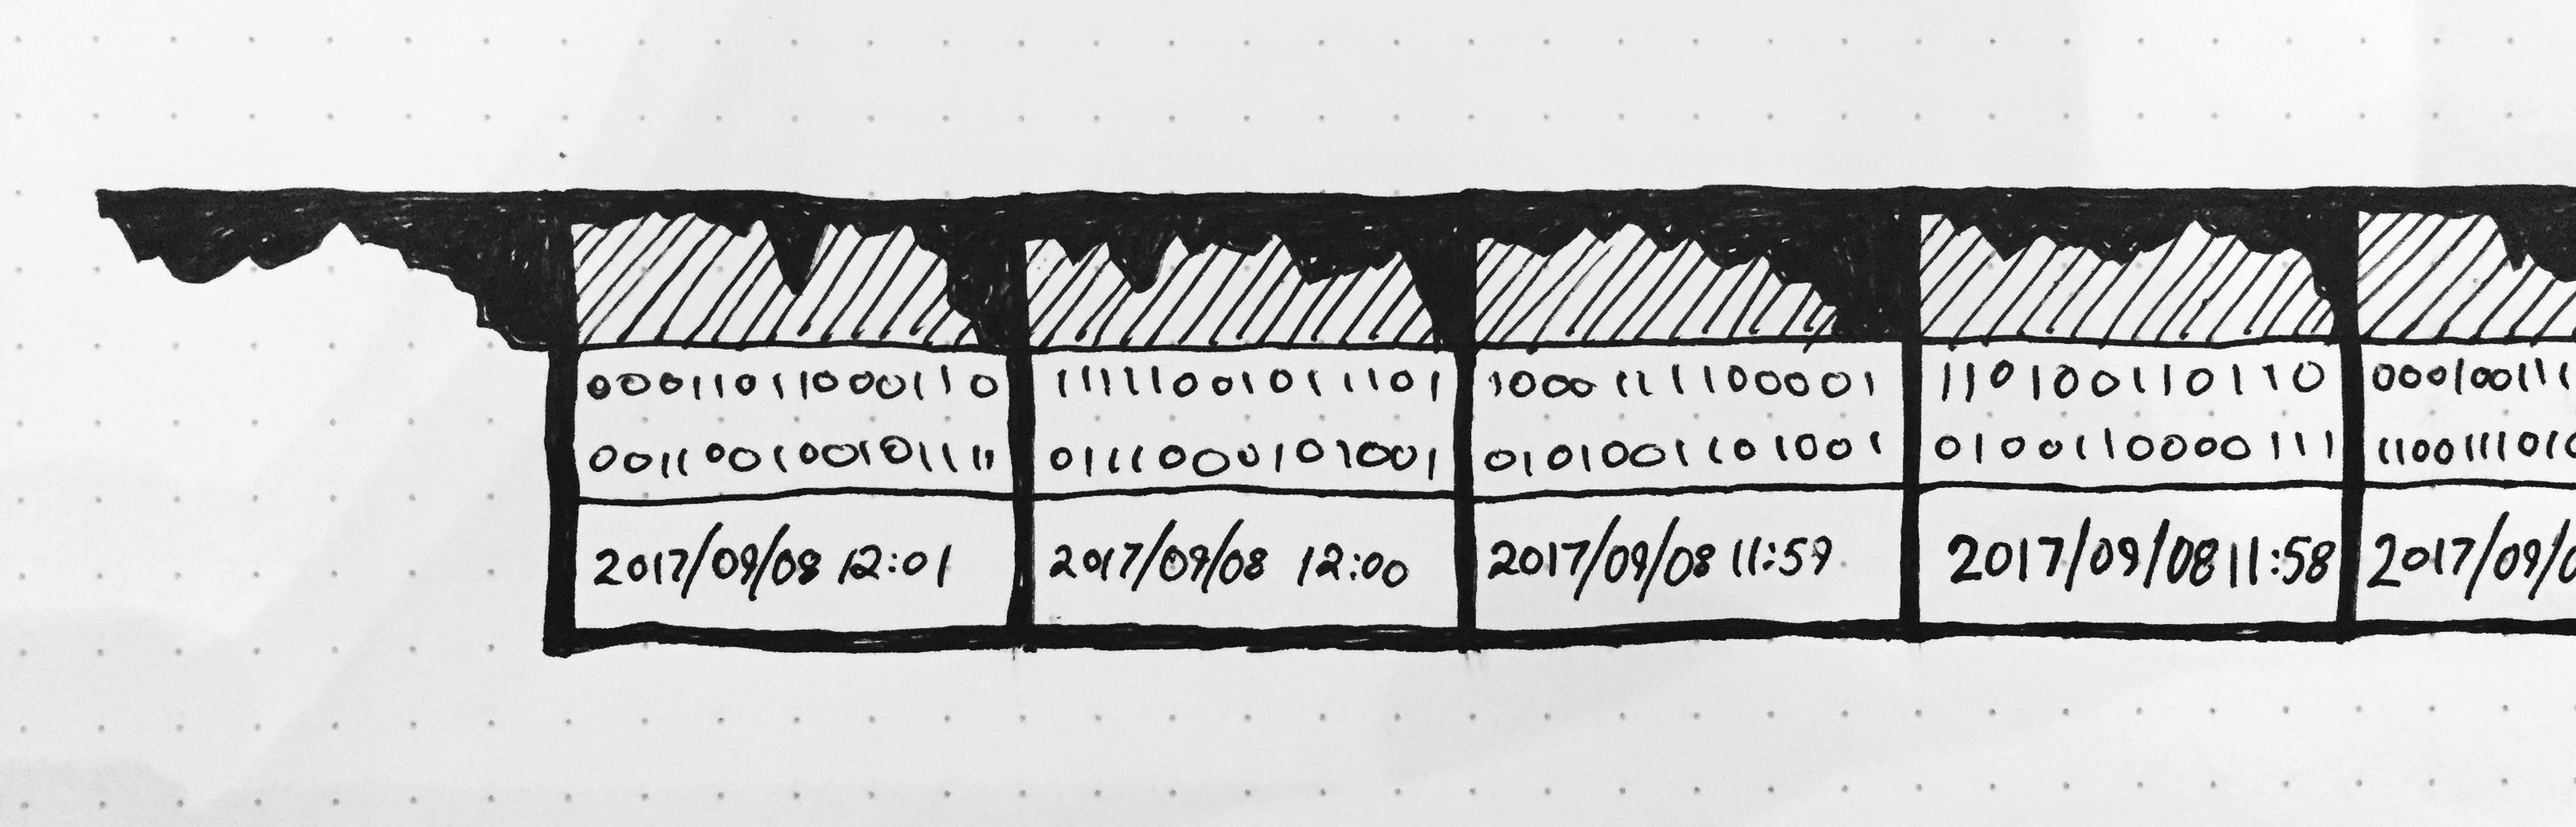
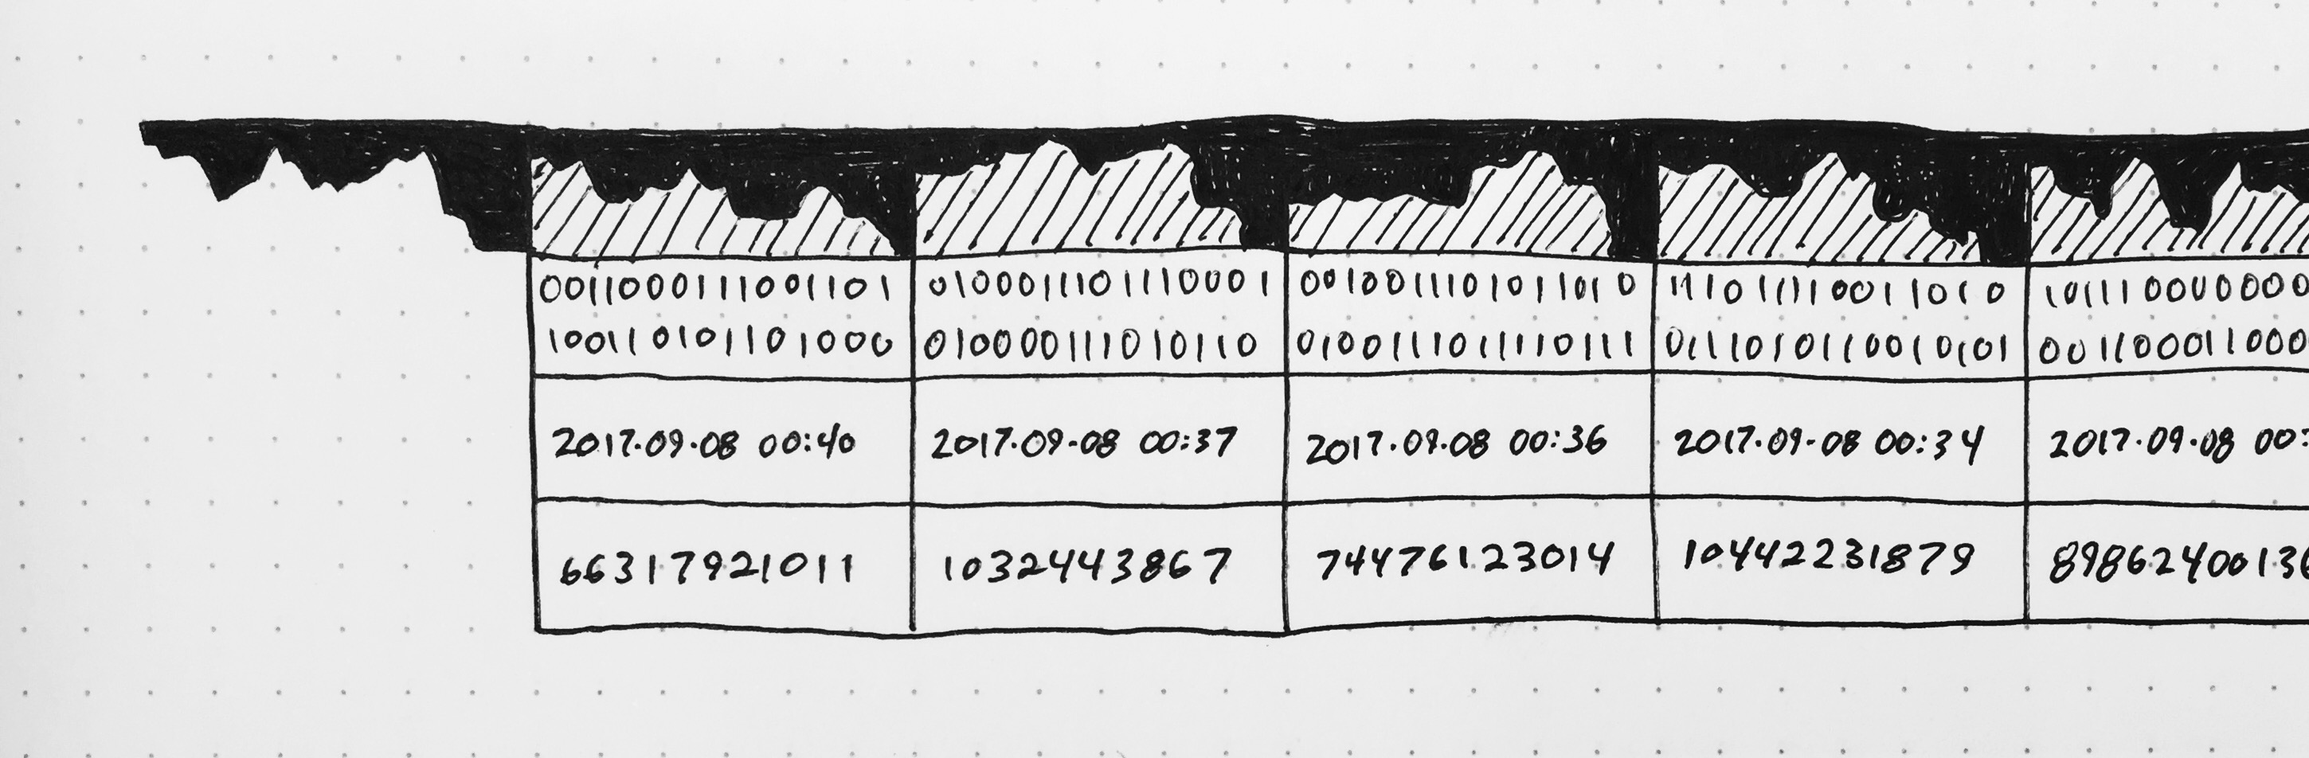
Blockchain Basics complete.

Changed region(s): [[0.031, 0.1523, 1.0, 0.8529]]

diff --git a/themes/stark/static/css/stark.css b/themes/stark/static/css/stark.css
@@ -33,9 +33,11 @@ p {
 a,a:visited {
   text-decoration: none;
   color: #2996D1;
+  cursor: default;
 }
 a:hover,a:active {
   color: #1F719E;
+  cursor: default;
 }
 
 h1 { color: #333; font-size: 1.8em; letter-spacing: 0.02em; line-height: 1.4; padding: 0 0 0 0; margin: 1em 0 0.6em 0; }
@@ -208,6 +210,16 @@ pre {
 }
 code {
   font-family: 'Cousine', monospace;
+}
+blockquote {
+  font-size: 1.2em;
+  border-radius: 4px;
+  border-left: 4px solid #EEE;
+  -webkit-margin-before: 1em;
+  -webkit-margin-after: 1em;
+  -webkit-margin-start: 10px;
+  -webkit-margin-end: 10px;
+  padding-left: 20px;
 }
 
 table {

diff --git a/content/post/blockchain.md b/content/post/blockchain.md
@@ -10,32 +10,88 @@ But what *is* a Bitcoin? Or maybe it's better to ask, how does Bitcoin work? To 
 
 ![Blockchain][cover]
 
-## What is a blockchain?
+## What are blockchains?
 
-{{< footref 2 "Blockchain" >}} refers to a distributed data structure, composed of blocks that are chained together. Each block contains a list of records, a timestamp, and a reference to the single previous block in the chain. The content of each block is cryptographically hashed--that is, sent through a {{< footref 3 "hash function" >}} to yield a deterministic value that is appended to the block. These hash values serve as the chaining reference mechanism; that is, each block stores the hash value of the previous block, which is included in the data that gets hashed and stored on each block. As data is generated, blocks are created and hashed--often through a process called "mining"--then appended to the end of the chain.
+{{< footref 2 "Blockchains" >}} are secure, decentralized data structures, composed of blocks that are chained together. Each block contains a list of records, a timestamp, and a reference to the single previous block in the chain. The content of each block is cryptographically hashed&mdash;that is, sent through a {{< footref 3 "hash function" >}} to yield a deterministic value that is appended to the block. These hash values serve as the chaining reference mechanism; that is, each block stores the hash value of the previous block, which is included in the data that gets hashed and stored on each block. As data is generated, blocks are created and hashed&mdash;often through a process called "mining"&mdash;then appended to the end of the chain.
 
 Got all that? Good, there's a little more.
 
-Every computer--or node--in the ecosystem keeps track of the entire blockchain history, back to the very first block. When a block is forged, everyone in the ecosystem is notified of this new block and is asked to add it to their chain. Hence, the blockchain is distributed--no single node defines the true state of affairs. Consensus is reached by the collective, not by a centralized authority. You should question the security properties of such a system, which we will briefly discuss soon.
+Every computer&mdash;or node&mdash;in the ecosystem keeps track of the entire blockchain history, back to the very first block. When a block is forged, everyone in the ecosystem is notified of this new block and is asked to add it to their chain. Hence, the blockchain is distributed&mdash;no single node defines the true state of affairs. Consensus is reached by the collective, not by a centralized authority. You should question the security properties of such a system, which we will briefly discuss soon.
 
 <div style="background: rgba(0,0,0,0.05); border-radius: 2px; padding: 20px 26px; color: #555555; font-weight: 300; margin-bottom: 1em; max-width: 100%; overflow-x: scroll;">
-  <h4>Hash functions</h4>
-  <p>The elegance of the blockchain is difficult to capture in a physical analogy because of the wizard-like properties of cryptographic hash functions. If you're totally unfamiliar, I encourage you to read this (and perhaps much more) before moving on.</p>
+  <h4><a href="#hash-functions" name="hash-functions">Cryptographic hash functions</a></h4>
+  <p>The elegance of the blockchain is difficult to capture in a physical analogy because of the mathemagical properties of cryptographic hash functions. If you're totally unfamiliar, I encourage you to read this (and perhaps much more) before moving on.</p>
   <p>In short, a hash function generates a deterministic, collision-resistant value, given some data. Changing even a single bit of the input data will radically change the output hash value. For example, here are the hash values for the inputs "blip" and "clip", using the popular SHA256 hash function:</p>
   <p><code>SHA256("blip") = 4EF2018109FF8A6508F97C0A7B000FDDDA264207C9B03A4666741803981EAB8A</code></p>
   <p><code>SHA256("clip") = 67905AD3CC2DD52B1F5F6A6D2814DE0396618B29B4238B9AF5207AEB69936E6D</code></p>
-  <p>The randomness and collision-resistance of these functions make two procedures practically impossible: discovering some pattern of predictability the output hash value, and inventing two different sets of input data that generate the same output hash value. These properties are the basis for blockchain security.</p>
+  <p>Often, hash functions are called one-way functions because they are relatively quick to compute, given an input, but nearly impossible to reverse-engineer. That is, given a hash output value, the only way to find the input that generated it would be to guess by brute-force. For SHA256, specifically, there are <code>2<sup>256</sup></code> possible output values and inputs are padded to <code>64-bit</code> numbers. That means there are <code>2<sup>64</sup>-1</code> possible inputs to check. Even if you expect to find the number you're looking for halfway through the process (on average) that would require hashing <code>2<sup>63</sup></code> values, a task which would take an infeasible amount of time even for an incredibly powerful modern computer. That means that fraudulently crafting two inputs that generate the same output and fraudulently crafting an input to match a given output are practically impossible operations.</p>
+  <p>These properties of cryptographic hash functions&mdash;unpredictability and collision-resistance&mdash;form the basis for <a href="#security">blockchain security</a>.</p>
 </div>
 
-Let's bolster this fuzzy technical description with some intuition.
+Let's bolster this quick, technical description with some intuition.
 
-## Intuition
+## Anatomy of a block
 
+Despite the non-physical, cryptographic qualities of blockchain, we can think of each block as both a key and lock. Adding a new block to the chain would equate to attaching the lock-side of the new block to the key-side of the last block in the chain.
 
+![Anatomy of a block][02]
+
+The lock side of the block (the four stacked rows on the right) is composed of at least a few pieces of data: the previous block's hash value, the data (often a list of records) that the blockchain is meant to store and protect, and the timestamp of the block's creation. In the case of Bitcoin and many other cryptocurrencies, it will also contain a {{< footref 4 "proof of work" >}}, which is a {{< footref 5 "nonce" >}}, or simply an integer that has been incremented a particular number of times in order to prove the computational work involved in mining the block. (We'll discuss what, exactly, that means in the <a href="#security">security</a> section below.)
+
+The key side (in solid black) is the value generated by hashing the entire lock side.
+
+While this analogy provides intuition about the structure of a blockchain, it fails to fully capture the most important property: data security and fraud-resistance. This property follows directly from the properties of {{< defref "hash-functions" "cryptographic hash functions" >}}, covered briefly above.
 
 ## Properties of a blockchain
 
+Recalling our first definition, blockchains have two essential properties:
+
+1. Decentralized
+1. Secure
+
+### Decentralization
+
+Decentralization is a straight-forward idea: no single, authoritative entity decides the state of a blockchain. Rather, every participant owns and maintains their own copy, so the "true state" of the blockchain is decided by consensus. Consensus is decided by the length of the chain, giving preference to longer chains&mdash;equivalently, chains that represent more computational work. (We'll return to this idea in the <a href="#security">security</a> section.)
+
+But why is the blockchain decentralized? Put simply, the entire point is to build a trustworthy structure without relying on a centralized, trusted third-party. For example, in the case of Bitcoin and other cryptocurrencies, blockchain gives individuals the ability to trust a transactional financial system without needing to trust a government or a bank. Therefore, all participants must own the state of the blockchain.
+
+Decentralized ownership, however, does not imply integrity. *Trustworthy* consensus is afforded by the structural security properties.
+
+<a name="security">
+### Security
+</a>
+
+If everyone owns the blockchain, what's stopping someone from simply changing the data? In the case of Bitcoin, where the data is a ledger of transactions, couldn't someone change a few numbers and steal from a stranger? Well, let's try.
+
+For any given block, I *could* change a number in the data. But changing even a single byte of the data will completely change the hash value of that block. Furthermore, changing the hash value of the current block will change the hash value embedded in the next block, causing a chain reaction through all subsequent blocks until the most recent one. Fraudulently changing data in a single block requires never-ending fraudulent re-hashing of every block that follows, which is obviously infeasible because is would require one to beat the entire decentralized community of owners and miners in a race to create blocks. This is where proof of work becomes important.
+
+The rules of a proof of work-based blockchain dictate that the binary value of a block's hash must start with a given number of consecutive `0`s before the first `1` appears. Thanks to the properties of cryptographic hash functions, brute force is the only way to discover one of these special hash values; that is, if the value doesn't start with `N` consecutive `0`s, increment the nonce and try again, repeating the process until finding a valid hash value.
+
+Just how tough would it be to find a hash value that started with, for example, twenty `0`s? The probability that any bit individual bit will be a `0` is `1` in `2`. Therefore, the probability that the first twenty consecutive bits of a random hash will be `0` is `1` in <code>2<sup>20</sup></code>, or `0.000000953674316`. On average, then, one could expect to have to compute `1048576` hashes in order to find such a number. The difficulty of this task rises exponentially with a linear increase in the number of consecutive `0`s required, so there is a simple way to make this task arbitrarily hard. Remember, also, that this task is required for each block! If someone were trying to defraud the system, they'd have to compute these millions of hashes for *every subsequent block*. That task is simply infeasible, unless the fraudulent party owns 50% or more of the total computing power working against them--the power of the distributed community.
+
+As Grant from [3Blue1Brown](https://www.3blue1brown.com/) explains in {{< footref 6 "Ever wonder how Bitcoin (and other cryptocurrencies) actually work?" >}},
+
+> If you use computational work as a basis for what to trust, you can make it so that fraudulent transactions and conflicting ledgers would require an infeasible amount of computation to bring about.
+
+Without getting too deep down the mathematical rabbit-hole, that definition of security will suffice: the system is secure if creating and perpetuating fraudulent data is infeasible. Hopefully you're convinced of the security of this system, in spite of the brevity with which we've had to cover it here.
+
 ## How can blockchains be used?
+
+[Entire books](https://www.amazon.com/Blockchain-Revolution-Technology-Changing-Business/dp/1101980133) have been written on the subject of blockchain applications, but I'd be remiss to get this far without mentioning a few:
+
+### Banks and currency
+
+The obvious application has already been mentioned: cryptocurrency, such as Bitcoin and Ethereum. By cutting out banks, cryptocurrencies promise trust without a trusted third-party and insulation from the tumult inherent in single-point-of-trust systems, such as traditional financial systems.
+
+### Smart contracts
+
+Artist Imogen Heap founded [Mycelia](http://myceliaformusic.org/2017/07/26/imogen-hbr-blockchain-help-musicians-make-money/), a blockchain-based project intended to use cryptocurrency and micro-payments to reinvent the music industry.
+
+### Voting systems
+
+In Estonia, the [entire government practically runs on blockchain](http://fortune.com/2017/04/27/estonia-digital-life-tech-startups/). One part of that system is identity and voting systems. Rather than deal with Social Security cards and paper proofs of identity in order to vote at centralized locations, Estonians receive a set of RSA keys for identification and vote from their computers.
+
+In short, blockchains can *probably* disrupt any system that depends on a trusted third-party that acts as a middle-man, making profits on processing data in a predictable, well-defined, deterministic way.
 
 ## Credit and Reference
 
@@ -45,10 +101,15 @@ Let's bolster this fuzzy technical description with some intuition.
 
 1. {{< footnote 3 "Cryptographic hash function - Wikipedia" "https://en.wikipedia.org/wiki/Cryptographic_hash_function" >}}
 
-1. {{< footnote _ "3Blue1Brown: Ever wonder how Cryptocurrencies work?" "https://www.youtube.com/watch?v=bBC-nXj3Ng4" >}}
+1. {{< footnote 4 "Proof-of-work system - Wikipedia" "https://en.wikipedia.org/wiki/Proof-of-work_system" >}}
+
+1. {{< footnote 5 "Cryptographic nonce - Wikipedia" "https://en.wikipedia.org/wiki/Cryptographic_nonce" >}}
+
+1. {{< footnote 6 "3Blue1Brown: Ever wonder how Bitcoin (and other cryptocurrencies) actually work?" "https://www.youtube.com/watch?v=bBC-nXj3Ng4" >}}
 <div class="iframe-container ic169">
   <iframe src="https://www.youtube.com/embed/bBC-nXj3Ng4" frameborder="0"></iframe>
 </div>
 
 [cover]: /images/blockchain/cover.jpg
 [01]: /images/blockchain/01.jpg
+[02]: /images/blockchain/02.jpg
